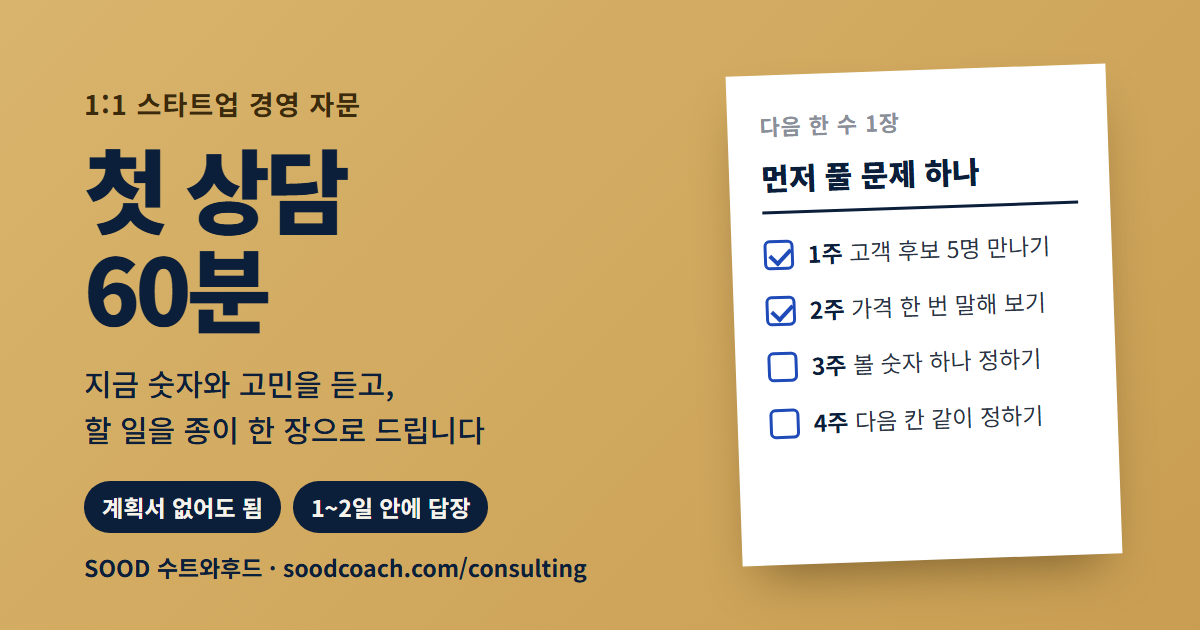
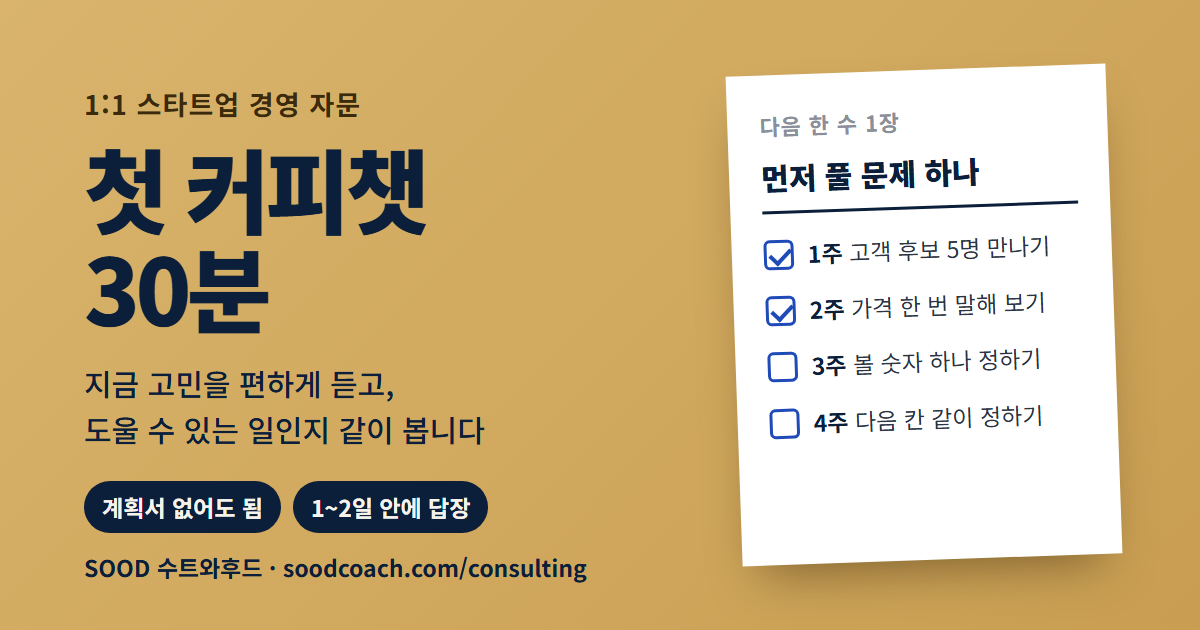
첫 상담 60분 → 무료 커피챗 30분, 비용 안내에 나누는 마음 문구
비용·첫 커피챗 FAQ, 첫 화면·상담 안내 상자, 버튼, 공유 그림, 검색 설명을 함께 바꿈.
'다음 한 수 1장'은 자문 첫 시간으로 옮김.

diff --git a/src/lib/site.js b/src/lib/site.js
@@ -92,9 +92,10 @@ export const faq = [
   { q: '어떤 분들과 일하나요?', a: '창업 3년 이내 대표, 1인 창업자와 일합니다. 정부지원사업이나 첫 투자 심사를 앞두고 숫자로 증명해야 한다면 특히 잘 맞습니다. 사업계획서가 없어도 지금 고민부터 듣습니다.' },
   { q: '정부지원사업에서 떨어졌는데 도움이 될까요?', a: '네. 심사 결과와 받은 피드백을 들고 오세요. 심사위원이 어디서 점수를 깎았는지 계획서의 숫자와 문장으로 짚고, 다음 공고 전에 고칠 순서를 잡습니다. 발표 심사 준비까지 같이 합니다.' },
   { q: '아직 사업자를 내지 않았어도 상담할 수 있나요?', a: '네. 회사를 나와 혼자 시작하려는 분이라면 아이템 하나부터 같이 고릅니다. 개인사업자로 할지 법인으로 할지, 첫 매출까지 무엇부터 할지도 이때 정합니다.' },
-  { q: '비용은 얼마인가요?', a: '첫 상담 60분은 무료입니다. 그 자리에서 할 일을 정하고, 이어서 자문을 하실 때는 그 범위로 비용을 알려 드립니다.' },
+  // 비용·첫 커피챗 2개는 커피챗 30분 전환 (2026-10-21, sood-humanize 게이트 통과)
+  { q: '비용은 얼마인가요?', a: '첫 30분은 무료 커피챗입니다. 지금 고민을 편하게 듣고 제가 도울 수 있는 일인지 함께 확인합니다. 자문으로 이어 가실 때는 그 범위에 맞춰 비용을 알려 드립니다. 이 일은 나누는 마음으로 합니다. 창업부터 매각까지 19년 동안 겪은 일이 되도록 많은 대표님께 쓰이면 좋겠습니다. 그래서 비용은 초기 팀도 부담 없이 낼 수 있는 최소 금액만 받습니다. 커피챗만 하고 진행하지 않으셔도 괜찮습니다.' },
   { q: '어떤 문제를 함께 다루나요?', a: '사업모델·전략, 지표·PMF, 투자·정부지원, AI 에이전트·1인 기업 네 가지를 다룹니다. 그중 지금 가장 급한 하나를 골라 집중합니다.' },
-  { q: '첫 상담은 어떻게 진행되나요?', a: '무료로 60분 동안 현재 지표와 고민을 듣고 먼저 풀어야 할 문제 하나와 다음 4주 동안 할 일을 한 장으로 정리해 드립니다. 집중 자문으로 이어갈지는 그 뒤에 결정합니다.' },
+  { q: '첫 커피챗은 어떻게 진행되나요?', a: '30분 동안 지금 하는 일과 막힌 곳을 편하게 듣습니다. 미리 준비할 자료는 없습니다. 제가 도울 수 있는 일이면 무엇부터 같이 볼지 알려 드리고 맞지 않으면 그렇다고 솔직하게 말씀드립니다. 자문을 이어 갈지는 그 뒤에 정하시면 됩니다.' },
   { q: '어떤 경험을 가진 코치인가요?', a: '문성운은 현대그룹 계열사인 (주)현대석유화학 기획실에서 M&A와 가치평가(Valuation)를 맡았습니다. 2001년 스마트홈 솔루션·광고 플랫폼 서비스 회사 (주)인터랙티비를 창업해 19년 동안 투자 유치와 성장, 매각(Exit)까지 이끌었습니다. 지금까지 20개 팀을 1:1로 자문했습니다.' },
   { q: '어떻게 문의하나요?', a: '이 페이지의 상담 폼이나 ultramsw67@gmail.com 으로 보내 주세요. 보통 1~2일 안에 답장드립니다.' },
 ];

diff --git a/src/pages/Home.jsx b/src/pages/Home.jsx
@@ -219,11 +219,11 @@ export default function Home() {
           <div className="entry-offer">
             <div>
               <p className="eyebrow">처음이라면</p>
-              <h3>첫 상담 60분 · 무료</h3>
-              <p>지금 숫자와 고민을 듣고, 가장 먼저 풀 문제 하나와 4주 동안 할 일을 종이 한 장으로 드립니다. 이 한 장을 ‘다음 한 수 1장’이라고 부릅니다. 계속 같이 할지는 그다음에 정하셔도 됩니다.</p>
+              <h3>첫 커피챗 30분 · 무료</h3>
+              <p>지금 하는 일과 막힌 곳을 편하게 듣고 제가 도울 수 있는 일인지 같이 확인합니다. 자문을 시작할지는 커피챗을 마친 뒤에 정하시면 됩니다. 자문을 시작하면 첫 시간에 ‘다음 한 수 1장’을 드립니다. 먼저 풀 문제 하나와 4주 동안 할 일을 종이 한 장에 정리해 담았습니다.</p>
             </div>
             {/* 2026-10-09: 첫 화면에 있던 짧은 신청 칸을 이리로 옮김 — 적은 내용은 상담 폼으로 그대로 넘어간다 */}
-            <form className="offer-side" onSubmit={toContact} aria-label="첫 상담 신청">
+            <form className="offer-side" onSubmit={toContact} aria-label="커피챗 신청">
               <div className="field">
                 <label htmlFor="leadName">이름</label>
                 <input id="leadName" name="leadName" type="text" autoComplete="name" maxLength="100" placeholder="이름 또는 팀 이름" />
@@ -237,7 +237,7 @@ export default function Home() {
                 <input id="leadIssue" name="leadIssue" type="text" maxLength="300" placeholder="지금 가장 급한 문제 하나" />
               </div>
               <button className="button primary block" type="submit">이어서 작성하기<Arrow /></button>
-              <p className="small">계획서가 없어도 됩니다. 첫 상담은 무료입니다.</p>
+              <p className="small">계획서가 없어도 됩니다. 커피챗은 무료입니다.</p>
             </form>
           </div>
         </div>
@@ -267,7 +267,7 @@ export default function Home() {
           </div>
           {/* 2026-10-09: 바깥 채널·이메일은 바닥글 한 곳, 이메일 주소는 상담 페이지에만 */}
           <div className="actions">
-            <Link className="button primary" to="/consulting#contact">무료 첫 상담 신청하기<Arrow /></Link>
+            <Link className="button primary" to="/consulting#contact">무료 커피챗 신청하기<Arrow /></Link>
           </div>
         </div>
       </section>

diff --git a/src/pages/Check.jsx b/src/pages/Check.jsx
@@ -358,7 +358,7 @@ export default function Check() {
               </div>
               <div className="mt"><Result ans={R.ans} stage={R.stage} prevAxis={before.axis} titles={titles} /></div>
               <Letter base={{ v: 1, st: R.stage, a: R.ans.slice(), q: ns ? ns.i : -1, h: hist }} />
-              <div className="minor"><Link className="text-link" to="/consulting#contact" state={{ message: `준비도 진단 ${LEVELS[level(before.total)][0]} → ${LEVELS[level(after.total)][0]} 구간 · 단계: ${STAGE_SHORT[R.stage]}\n` }}>이 결과로 무료 첫 상담 60분 신청하기<Arrow /></Link></div>
+              <div className="minor"><Link className="text-link" to="/consulting#contact" state={{ message: `준비도 진단 ${LEVELS[level(before.total)][0]} → ${LEVELS[level(after.total)][0]} 구간 · 단계: ${STAGE_SHORT[R.stage]}\n` }}>이 결과로 무료 커피챗 30분 신청하기<Arrow /></Link></div>
             </div>
           );
         })()}
@@ -416,8 +416,8 @@ export default function Check() {
                 <p className="small muted">{SHEETS[pick].desc} 이메일 없이 바로 받습니다.</p>
                 <a className="button gold block" href={SHEETS[pick].file} download onClick={() => trackEvent('check_sheet_download', { pick })}>「{SHEETS[pick].name}」 빈 양식 PDF 받기</a></div>
               <div><p className="step">② 수드에게 막힌 것 물어보기</p><Ask total={total} lv={lv} stage={S.stage} /></div>
-              <div><p className="step">③ 직접 상담 받기 · 60분 무료</p>
-                <Link className="button ghost block" to="/consulting#contact" state={{ message: memo }} onClick={() => trackEvent('check_to_consult')}>이 결과로 무료 첫 상담 60분 신청하기</Link></div>
+              <div><p className="step">③ 직접 상담 받기 · 커피챗 30분 무료</p>
+                <Link className="button ghost block" to="/consulting#contact" state={{ message: memo }} onClick={() => trackEvent('check_to_consult')}>이 결과로 무료 커피챗 30분 신청하기</Link></div>
             </div>
             <div className="minor"><button type="button" className="textlink" onClick={() => setS({ step: 'start', stage: null, ans: Array(10).fill(null), order: [], pos: 0 })}>처음부터 다시 하기</button></div>
           </div>

diff --git a/src/pages/Consulting.jsx b/src/pages/Consulting.jsx
@@ -80,7 +80,7 @@ export default function Consulting() {
           <h1>무엇을 돕는지,<br />어떻게 진행하는지</h1>
           <p className="lead">창업 3년 이내 대표, 1인 창업자와 일합니다. 정부지원사업이나 첫 투자 심사를 앞두고 숫자로 증명해야 한다면 특히 잘 맞습니다. 자주 받는 질문은 아래에 먼저 답해 두었습니다.</p>
           <div className="actions">
-            <a className="button primary" href="#contact">무료 첫 상담 60분 신청<Arrow /></a>
+            <a className="button primary" href="#contact">무료 커피챗 30분 신청<Arrow /></a>
             <a className="button ghost" href="#faq">자주 묻는 질문</a>
           </div>
         </header>
@@ -114,12 +114,12 @@ export default function Consulting() {
           <div className="entry-offer">
             <div>
               <p className="eyebrow">처음이라면</p>
-              <h3>첫 상담 60분 · 무료</h3>
-              <p>현재 지표와 고민을 듣고 지금 가장 먼저 풀어야 할 문제 하나와 다음 4주 동안 할 일을 한 장으로 정리해 드립니다. 이후 집중 자문으로 이어갈지는 그때 정합니다.</p>
+              <h3>첫 커피챗 30분 · 무료</h3>
+              <p>지금 하는 일과 막힌 곳을 편하게 듣고 제가 도울 수 있는 일인지 같이 확인합니다. 자문을 시작할지는 커피챗을 마친 뒤에 정하시면 됩니다. 자문을 시작하면 첫 시간에 ‘다음 한 수 1장’을 드립니다. 먼저 풀 문제 하나와 4주 동안 할 일을 종이 한 장에 정리해 담았습니다.</p>
             </div>
             <div className="offer-side">
-              <a className="button primary block" href="#contact">무료 첫 상담 60분 신청<Arrow /></a>
-              <p className="small">첫 상담은 무료입니다. 이어서 자문을 하실 때만 비용을 정합니다.</p>
+              <a className="button primary block" href="#contact">무료 커피챗 30분 신청<Arrow /></a>
+              <p className="small">커피챗은 무료입니다. 이어서 자문을 하실 때만 비용을 정합니다.</p>
             </div>
           </div>
         </section>

diff --git a/scripts/og-consulting.html b/scripts/og-consulting.html
@@ -12,7 +12,7 @@ h1{margin-top:14px;font-size:92px;font-weight:900;line-height:1.08;letter-spacin
 .row i{flex:none;width:30px;height:30px;border:3px solid #1f4bb8;border-radius:6px;margin-top:2px;position:relative}
 .row i.on:after{content:"";position:absolute;left:7px;top:1px;width:9px;height:17px;border:solid #1f4bb8;border-width:0 4px 4px 0;transform:rotate(45deg)}
 .row b{color:#0b1f3a}
-</style></head><body><div class="l"><div class="eb">1:1 스타트업 경영 자문</div><h1>첫 상담<br>60분</h1><div class="sub">지금 숫자와 고민을 듣고,<br>할 일을 종이 한 장으로 드립니다</div><div class="chips"><span>계획서 없어도 됨</span><span>1~2일 안에 답장</span></div></div>
+</style></head><body><div class="l"><div class="eb">1:1 스타트업 경영 자문</div><h1>첫 커피챗<br>30분</h1><div class="sub">지금 고민을 편하게 듣고,<br>도울 수 있는 일인지 같이 봅니다</div><div class="chips"><span>계획서 없어도 됨</span><span>1~2일 안에 답장</span></div></div>
 <div class="paper"><div class="t">다음 한 수 1장</div><div class="h">먼저 풀 문제 하나</div>
 <div class="row"><i class="on"></i><span><b>1주</b> 고객 후보 5명 만나기</span></div><div class="row"><i class="on"></i><span><b>2주</b> 가격 한 번 말해 보기</span></div><div class="row"><i></i><span><b>3주</b> 볼 숫자 하나 정하기</span></div><div class="row"><i></i><span><b>4주</b> 다음 칸 같이 정하기</span></div></div>
 <div class="url">SOOD 수트와후드 · soodcoach.com/consulting</div></body></html>

diff --git a/src/pages/Free.jsx b/src/pages/Free.jsx
@@ -89,8 +89,8 @@ export default function Free() {
             {picked.map((k) => <a key={k} href={SHEETS[k].file} download onClick={() => trackEvent('free_download', { file: k })}>{SHEETS[k].name}<span>PDF · 1쪽</span></a>)}
           </div>
           <div className="next">
-            <p>다 채웠는데 어디서 막히는지 모르겠다면, 이 표를 들고 무료 첫 상담 60분을 신청하세요.</p>
-            <Link className="button primary" to="/consulting#contact" onClick={() => trackEvent('free_to_consult')}>무료 첫 상담 신청하기</Link>
+            <p>다 채웠는데 어디서 막히는지 모르겠다면, 이 표를 들고 무료 커피챗 30분을 신청하세요.</p>
+            <Link className="button primary" to="/consulting#contact" onClick={() => trackEvent('free_to_consult')}>무료 커피챗 신청하기</Link>
             {!fromCheck && <p className="alt"><Link className="textlink" to="/check">3분 준비도 진단도 해 보기 →</Link></p>}
           </div>
         </div>

diff --git a/src/pages/ArticleDetail.jsx b/src/pages/ArticleDetail.jsx
@@ -71,9 +71,9 @@ export default function ArticleDetail() {
         <div className="article-cta">
           <div>
             <strong>이 주제로 고민 중이라면</strong>
-            <p>무료 첫 상담 60분에 현재 상황을 듣고 다음 한 수를 한 장으로 정리해 드립니다.</p>
+            <p>무료 커피챗 30분에 지금 상황을 편하게 듣고 제가 도울 수 있는 일인지 같이 확인합니다.</p>
           </div>
-          <Link className="button primary" to="/consulting#contact">무료 첫 상담 60분 신청</Link>
+          <Link className="button primary" to="/consulting#contact">무료 커피챗 30분 신청</Link>
         </div>
         <nav className="prev-next" aria-label="이전 · 다음 글">
           {newer ? <Link to={'/articles/' + newer.id}><span>다음 글</span>{newer.title}</Link> : <span />}

diff --git a/tests/site.spec.js b/tests/site.spec.js
@@ -336,7 +336,7 @@ test('3분 진단: 결과에서 상담으로 가면 고민 칸이 채워지고, 
   await page.getByRole('button', { name: '보내기' }).click();
   await expect(page.locator('.ask .sent')).toBeVisible();
   expect(sent[0].subject).toContain('[진단 상담실]');
-  await page.getByRole('link', { name: '이 결과로 무료 첫 상담 60분 신청하기' }).click();
+  await page.getByRole('link', { name: '이 결과로 무료 커피챗 30분 신청하기' }).click();
   await expect(page.locator('#message')).toHaveValue(/준비도 진단 새싹 구간/);
 });
 

diff --git a/src/pages/About.jsx b/src/pages/About.jsx
@@ -118,7 +118,7 @@ export default function About() {
           <h2>지금 풀고 싶은 문제가 있나요?</h2>
           <p style={{ marginTop: 8 }}>정리된 계획서가 없어도 괜찮습니다. 보통 1~2일 안에 답장드립니다.</p>
         </div>
-        <Link to="/consulting#contact" className="button primary">무료 첫 상담 60분 신청<Arrow /></Link>
+        <Link to="/consulting#contact" className="button primary">무료 커피챗 30분 신청<Arrow /></Link>
       </div>
     </div>
   );
